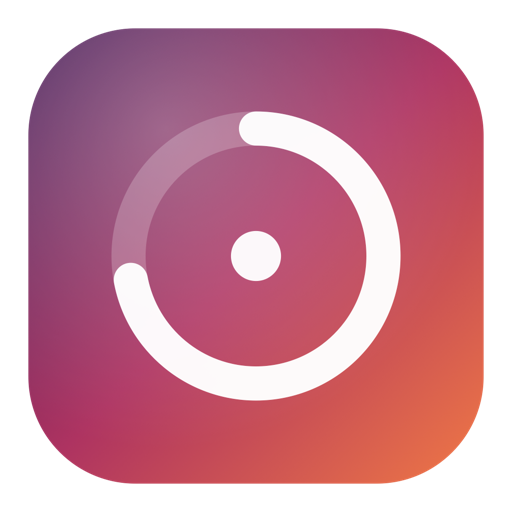
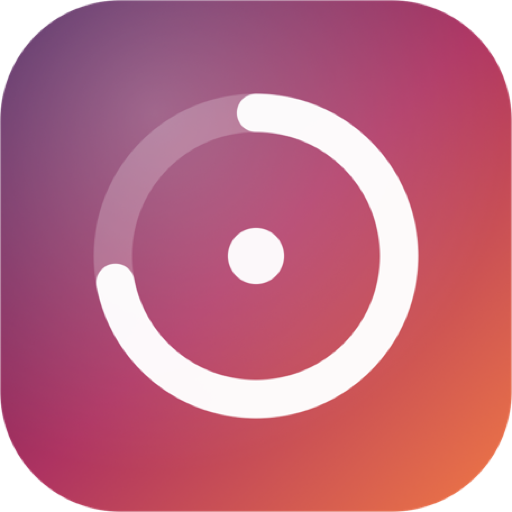
correction: liens du pied de page cliquables et icône Focus du dock recadrée

diff --git a/index.html b/index.html
@@ -281,6 +281,7 @@
 
   footer { padding-top: 40px; overflow: hidden; }
   .footer-links {
+    position: relative; z-index: 1;
     display: flex; align-items: center; justify-content: center; gap: 8px;
     font-size: 16px; color: var(--muted-l);
   }
@@ -289,8 +290,11 @@
     transition: color .16s ease, background-color .16s ease;
   }
   .footer-links a:hover { color: var(--ink); background: var(--soft); }
-  /* le mot géant du pied de page : rempli d'un dégradé qui se dissout vers le bas */
+  /* le mot géant du pied de page : rempli d'un dégradé qui se dissout vers le bas.
+     line-height < 1 fait déborder les glyphes hors de la boîte, par-dessus les
+     liens du dessus — sans pointer-events:none il leur volait le clic. */
   .wordmark {
+    pointer-events: none;
     margin-top: 8px; text-align: center; line-height: 0.78;
     font-size: clamp(96px, 28vw, 352px); font-weight: 900; letter-spacing: -0.045em;
     user-select: none;
